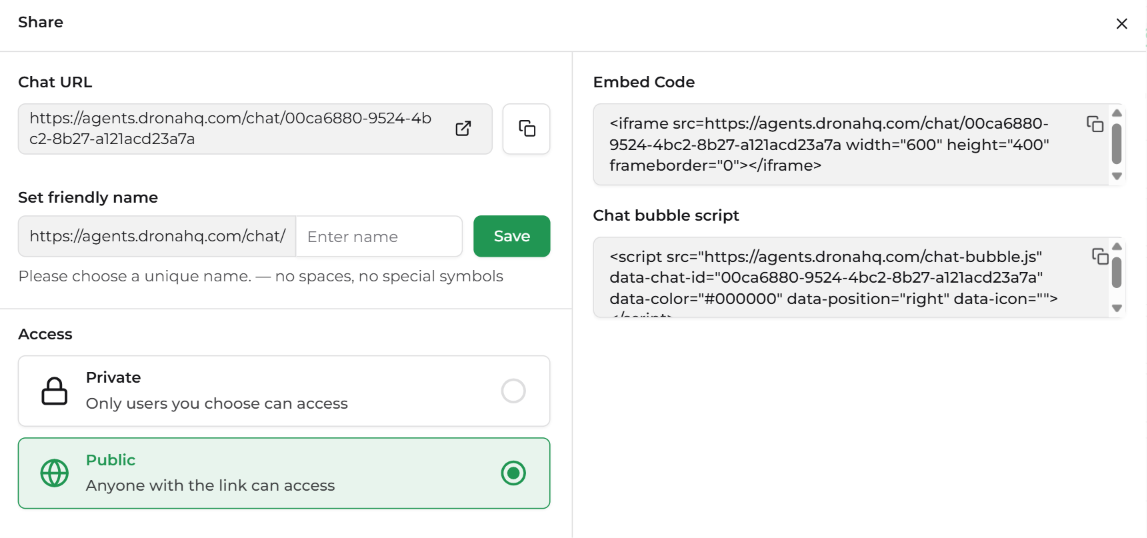
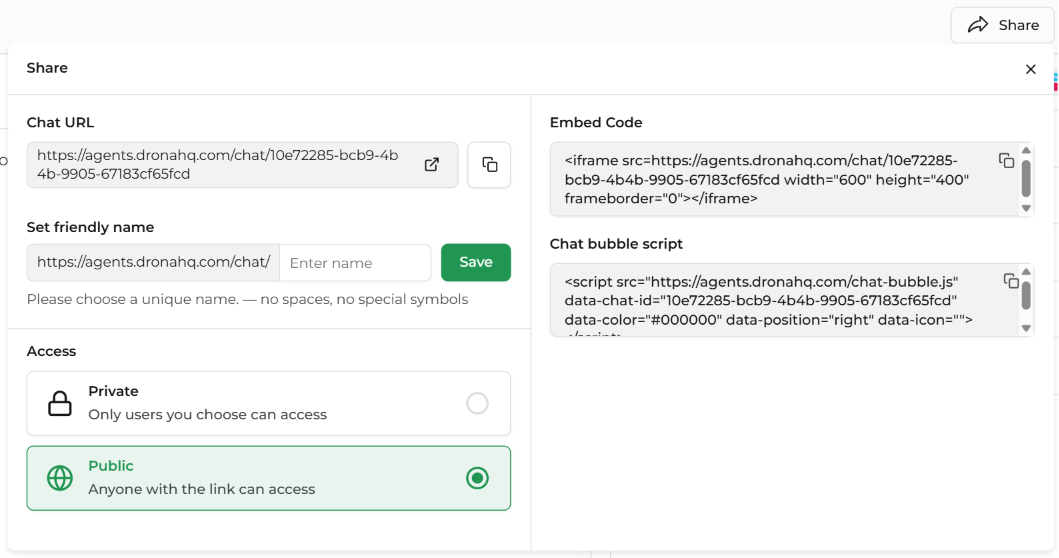
added standard access

diff --git a/docs-agents/getting-started/share-and-access-overview/standard-embed.md b/docs-agents/getting-started/share-and-access-overview/standard-embed.md
@@ -1,0 +1,124 @@
+---
+sidebar_position: 2
+title: "Standard Embed"
+pagination_prev: null
+---
+import VideoEmbed from "@site/src/components/VideoEmbed";
+import Image from "@site/src/components/Image";
+import VersionedLink from '@site/src/components/VersionedLink';
+import ArrowRight from '@site/static/icons/arrow_right.svg';
+import Thumbnail from '@site/src/components/Thumbnail';
+
+# Standard Embed Overview
+
+ DronaHQ provides different ways in which public agents can be embedded in your own portals, applications, or websites. These agents work openly without any authentication — ideal for use cases like customer support widgets, lead capture bots, onboarding assistants, or any agent you want to surface directly on your site.
+
+<figure>
+  <Thumbnail src="/img/agent-share-access/public-access.png" alt="Diagram of Secure Embed Sharing" width='100%'/>
+  <figcaption align = "center"><i>Standard Enbed</i>
+  </figcaption>
+</figure>
+
+You have the following options to embed a public agent:
+
+- **iFrame** — embed the agent inline as part of a page layout
+- **Chat bubble script** — add a floating chat button that overlays any page
+- **Embed code** — copy a ready-to-use snippet directly from the Share panel
+
+To access these options, open your agent, click **Share** in the top bar, and set **Access** to **Public**. The embed options will appear in the right-hand panel.
+
+---
+
+## iFrame
+
+An iFrame embeds the agent directly inside your webpage as an inline element. The agent loads within a defined area of your page — useful for dedicated chat pages, sidebars, or support sections.
+
+```html
+<iframe
+  src="https://agents.dronahq.com/chat/<agent-id>"
+  width="600"
+  height="400"
+  frameborder="0">
+</iframe>
+```
+
+Adjust `width` and `height` to fit your layout. For a fully responsive embed that scales with the page, use this CSS wrapper instead:
+
+```html
+<div style="position: relative; width: 100%; padding-bottom: 66%;">
+  <iframe
+    src="https://agents.dronahq.com/chat/<agent-id>"
+    style="position: absolute; inset: 0; width: 100%; height: 100%; border: none;">
+  </iframe>
+</div>
+```
+
+> 💡 **Tip:** Use `frameborder="0"` and `border: none` together to avoid double borders across different browsers.
+
+---
+
+## Chat Bubble Script
+
+The Chat bubble script adds a floating chat button that sits fixed on your page. Visitors click it to open the agent as an overlay — without leaving the page they're on. This is the least intrusive way to surface an agent on an existing site or product.
+
+Paste the script before the closing `</body>` tag on any page where you want the bubble to appear:
+
+```html
+<script
+  src="https://agents.dronahq.com/chat-bubble.js"
+  data-chat-id="<agent-id>"
+  data-color="#000000"
+  data-position="right"
+  data-icon="">
+</script>
+```
+
+### Attributes
+
+| Attribute       | Required | Description                                                             |
+| --------------- | -------- | ----------------------------------------------------------------------- |
+| `data-chat-id`  | Yes      | Your agent's unique ID — copy it from the Share panel                   |
+| `data-color`    | No       | Hex colour of the bubble button. Defaults to `#000000`                  |
+| `data-position` | No       | Screen position of the bubble — `right` (default) or `left`            |
+| `data-icon`     | No       | URL of a custom icon image to display inside the bubble button          |
+
+> 💡 **Tip:** Set `data-color` to your brand's primary colour so the widget blends naturally into your site.
+
+---
+
+## Embed Code
+
+The Embed Code is a pre-filled snippet generated directly from the Share panel — it includes your agent's ID already filled in, so you can copy and paste it without any manual edits.
+
+To get it:
+
+1. Open your agent and click **Share**
+2. Set **Access** to **Public**
+3. Copy the snippet from the **Embed Code** box on the right
+
+The snippet is an iFrame by default:
+
+```html
+<iframe
+  src="https://agents.dronahq.com/chat/<agent-id>"
+  width="600"
+  height="400"
+  frameborder="0">
+</iframe>
+```
+
+This is the quickest way to get up and running — no configuration needed beyond pasting it into your page.
+
+---
+
+## Choosing the Right Embed Method
+
+| | iFrame | Chat Bubble Script | Embed Code |
+| --- | --- | --- | --- |
+| **Placement** | Inline within page layout | Floating overlay on page | Inline (same as iFrame) |
+| **Customisable size** | Yes | No (fixed bubble) | Yes |
+| **Disrupts page layout** | No | No | No |
+| **Best for** | Dedicated chat sections | Surfacing agent on existing pages | Quick copy-paste setup |
+| **Setup effort** | Low | Low | Minimal |
+
+

diff --git a/docs-agents/getting-started/share-and-access-overview/public-access.md b/docs-agents/getting-started/share-and-access-overview/public-access.md
@@ -16,7 +16,8 @@ When you set your agent's access to **Public**, anyone with the link can open an
 
 <figure>
   <Thumbnail src="/img/agent-share-access/public-access.png" alt="Diagram of Secure Embed Sharing" width='100%'/>
-  <figcaption align = "center"></figcaption>
+  <figcaption align = "center"><i> Public Access</i>
+  </figcaption>
 </figure>
 
 DronaHQ gives you three ways to share a public agent:
@@ -108,6 +109,7 @@ Copy the script from the Share panel and paste it before the closing `</body>` t
 | `data-position` | Position of the bubble on screen — `right` or `left`                     |
 | `data-icon`     | Optional URL for a custom icon image inside the bubble button             |
 
-> 💡 **Tip:** Match `data-color` to your brand's primary colour so the widget feels native to your site.
+> **Tip:** Match `data-color` to your brand's primary colour so the widget feels native to your site.
+
 
 ---

diff --git a/docs-agents/getting-started/share-and-access-overview/private-access.md b/docs-agents/getting-started/share-and-access-overview/private-access.md
@@ -11,7 +11,7 @@ import Thumbnail from '@site/src/components/Thumbnail';
 
 
 
-When your agent's access is set to **Private**, it is not accessible to the public. Only users you explicitly grant access to — either by invite or via a verified JWT — can open and interact with it.
+When your agent's access is set to **Private**, it is not accessible to the public. Only users you explicitly grant access to, either by invite or via a verified JWT, can open and interact with it.
 
 <figure>
   <Thumbnail src="/img/agent-share-access/private-access.png" alt="Diagram of Secure Embed Sharing" width='100%'/>
@@ -59,7 +59,7 @@ This is the right approach when:
 - Your users have accounts in your system, not DronaHQ
 - You need per-user conversation history scoped to your own identity
 
-For the full Secure Embed setup — including how to generate your Identity Secret, sign a JWT, embed the agent via iframe, and handle token refresh — see the [Secure Embed documentation](./secure-embed-dronahq.md).
+For the full Secure Embed setup — including how to generate your Identity Secret, sign a JWT, embed the agent via iframe, and handle token refresh — see the [Secure Embed documentation](https://docs.dronahq.com/agents/getting-started/share-and-access-overview/secure-embed/).
 
 ---
 